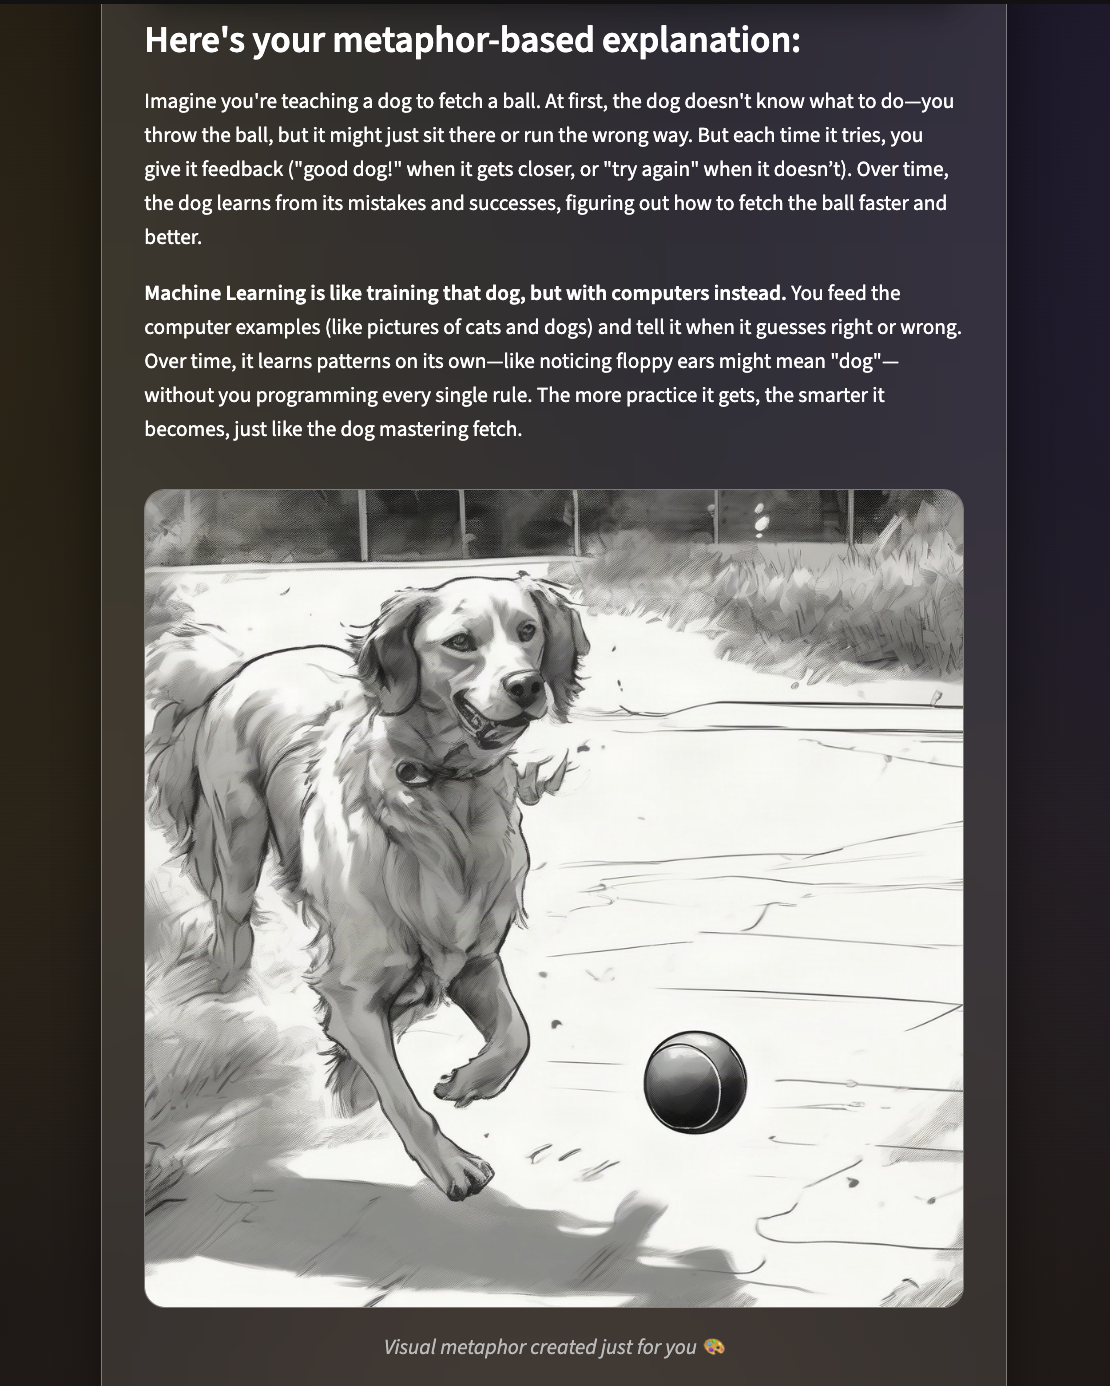
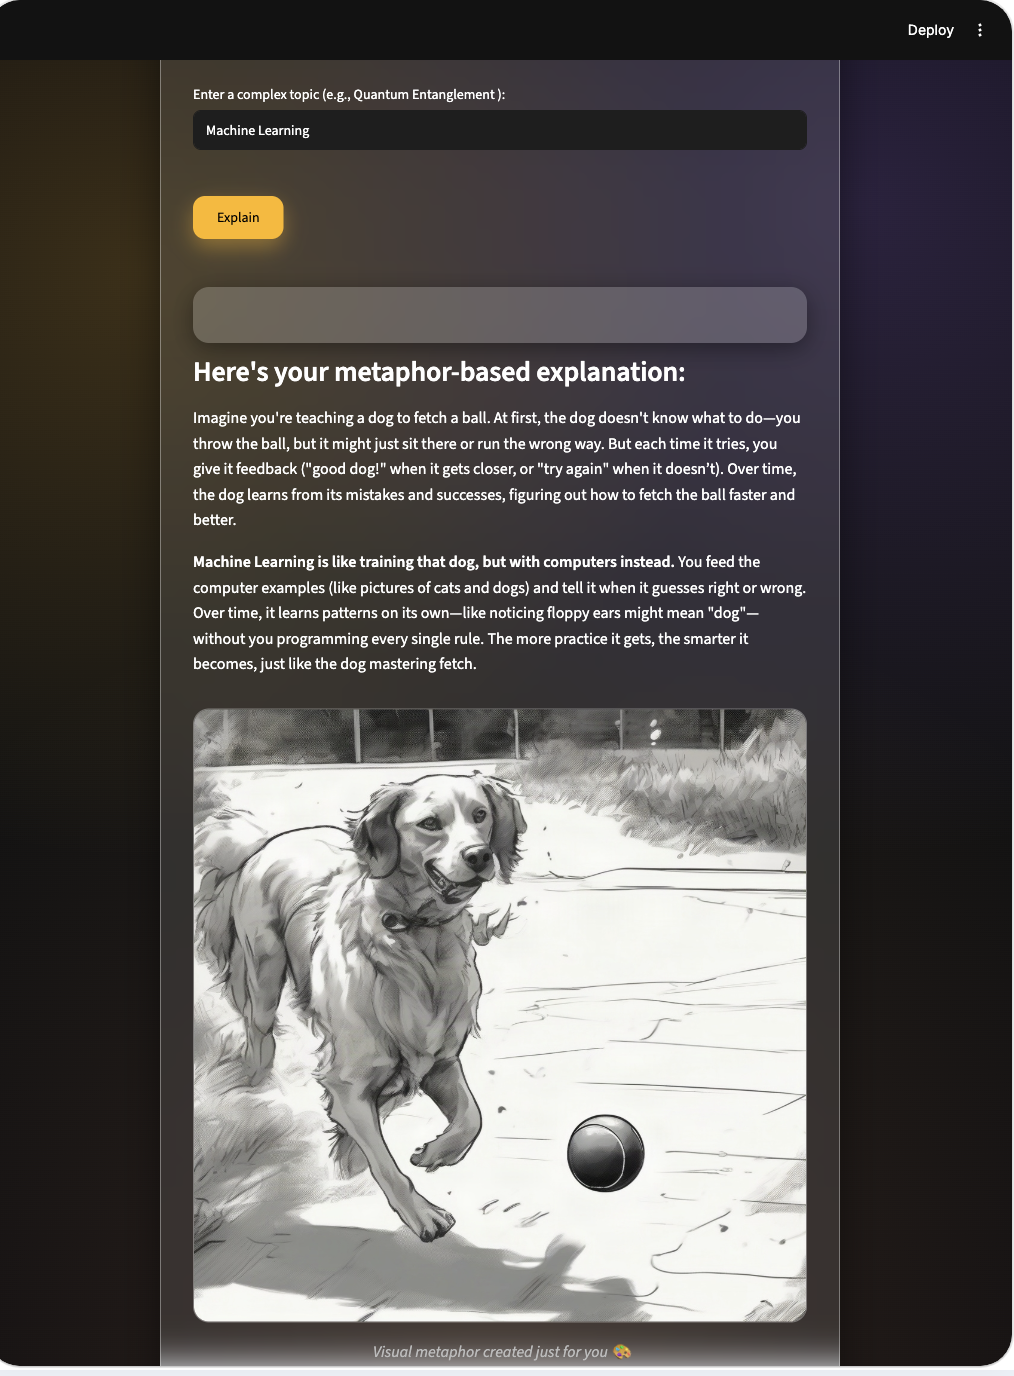
docs: update README and example screenshot

diff --git a/README.md b/README.md
@@ -8,9 +8,9 @@ A clean, robust Streamlit application that transforms complex topics into clear 
 
 ## Example
 
-Type in a topic like "Machine Learning" and get back a plain-language metaphor plus a matching AI-generated illustration:
+Input topic: **"Machine Learning"** → output: a plain-language metaphor plus a matching AI-generated illustration, shown together below.
 
-![Magic Metaphors example: a Machine Learning explanation with a dog-fetching-a-ball metaphor and matching illustration](assets/example_screenshot.png)
+![Magic Metaphors example: input topic "Machine Learning" with the generated metaphor (comparing it to training a dog to fetch a ball) and matching illustration shown below it](assets/example_screenshot.png)
 
 ---
 
